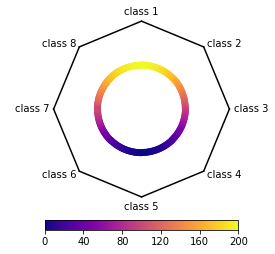
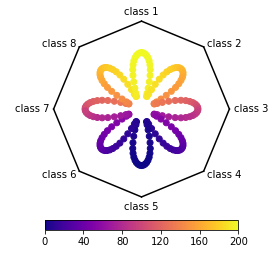
update README.md

Changed region(s): [[0.2909, 0.1929, 0.7564, 0.689]]

diff --git a/README.md b/README.md
@@ -65,16 +65,17 @@ fig, ax, ll = bp.plot()
 ```python
 # generate data
 import numpy as np
-vec = np.pi * np.array(range(201)) / 100
+vec = np.pi * np.array(range(200)) / 100
 pos = np.sin(vec)+1
-pdat = pd.DataFrame({'class 1':pos,
-                     'class 2':np.roll(pos, 25),
-                     'class 3':np.roll(pos, 50),
-                     'class 4':np.roll(pos, 75),
-                     'class 5':np.roll(pos, 100),
-                     'class 6':np.roll(pos, 125),
-                     'class 7':np.roll(pos, 150),
-                     'class 8':np.roll(pos, 175),
+ep = (np.cos(vec*8)*.8) + 1
+pdat = pd.DataFrame({'class 1':pos**ep,
+                     'class 2':np.roll(pos, 25)**ep,
+                     'class 3':np.roll(pos, 50)**ep,
+                     'class 4':np.roll(pos, 75)**ep,
+                     'class 5':np.roll(pos, 100)**ep,
+                     'class 6':np.roll(pos, 125)**ep,
+                     'class 7':np.roll(pos, 150)**ep,
+                     'class 8':np.roll(pos, 175)**ep,
                      'val':pos*100})
 # plot
 bp = multi_bary_plot(pdat, 'val')
